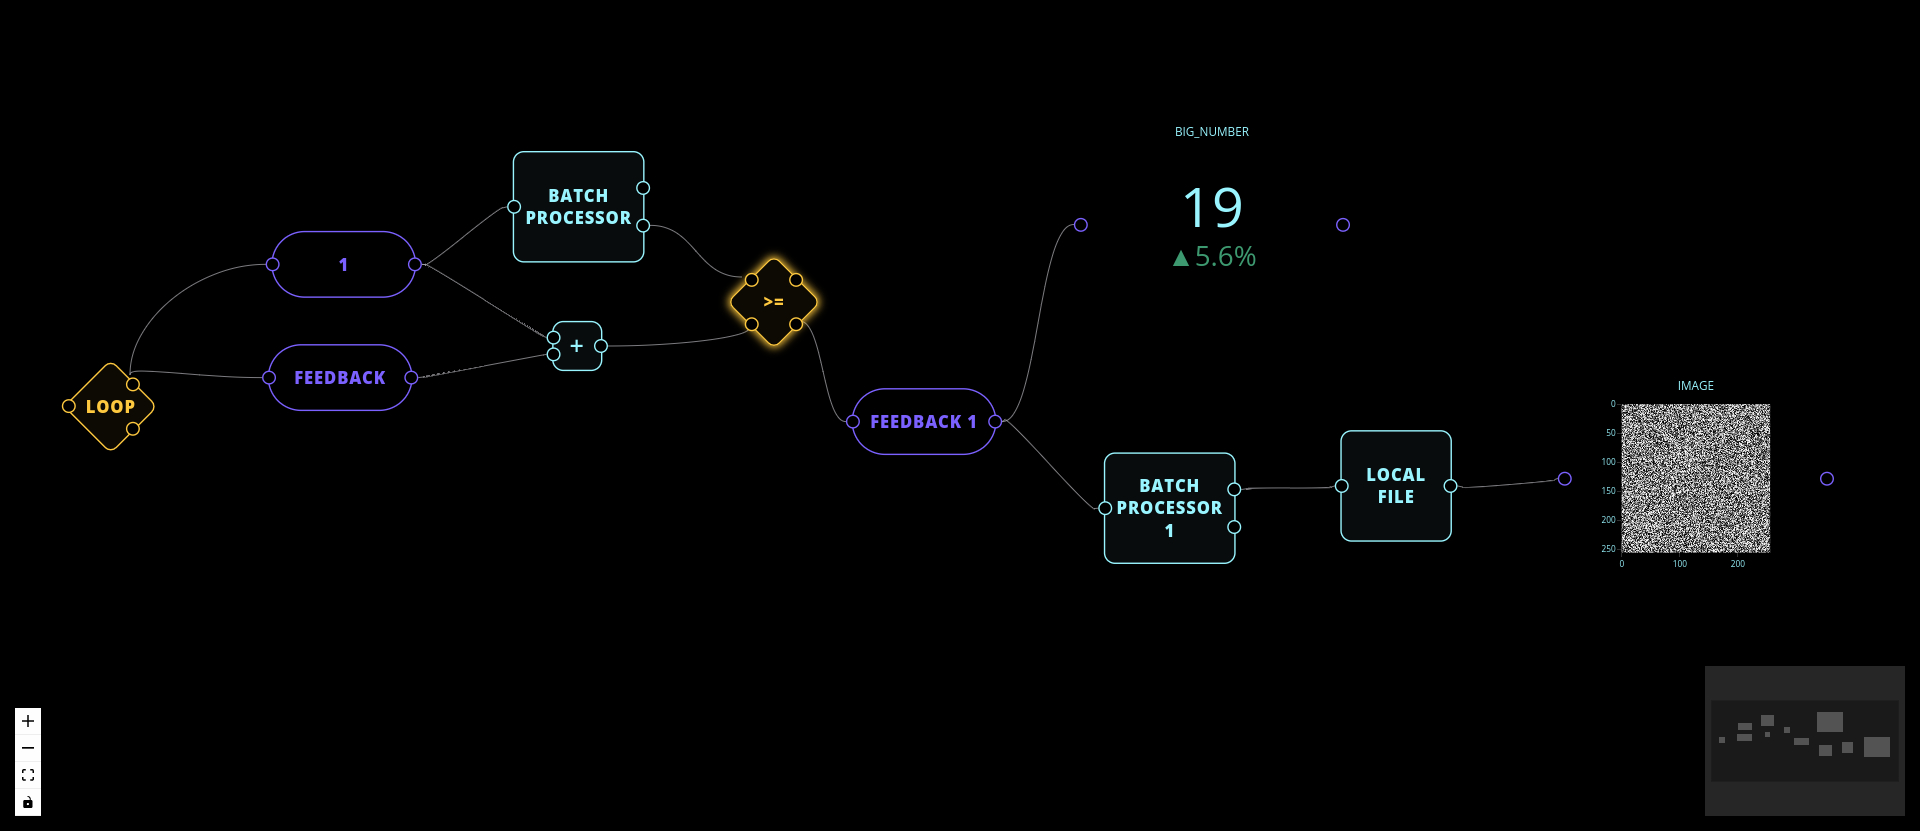
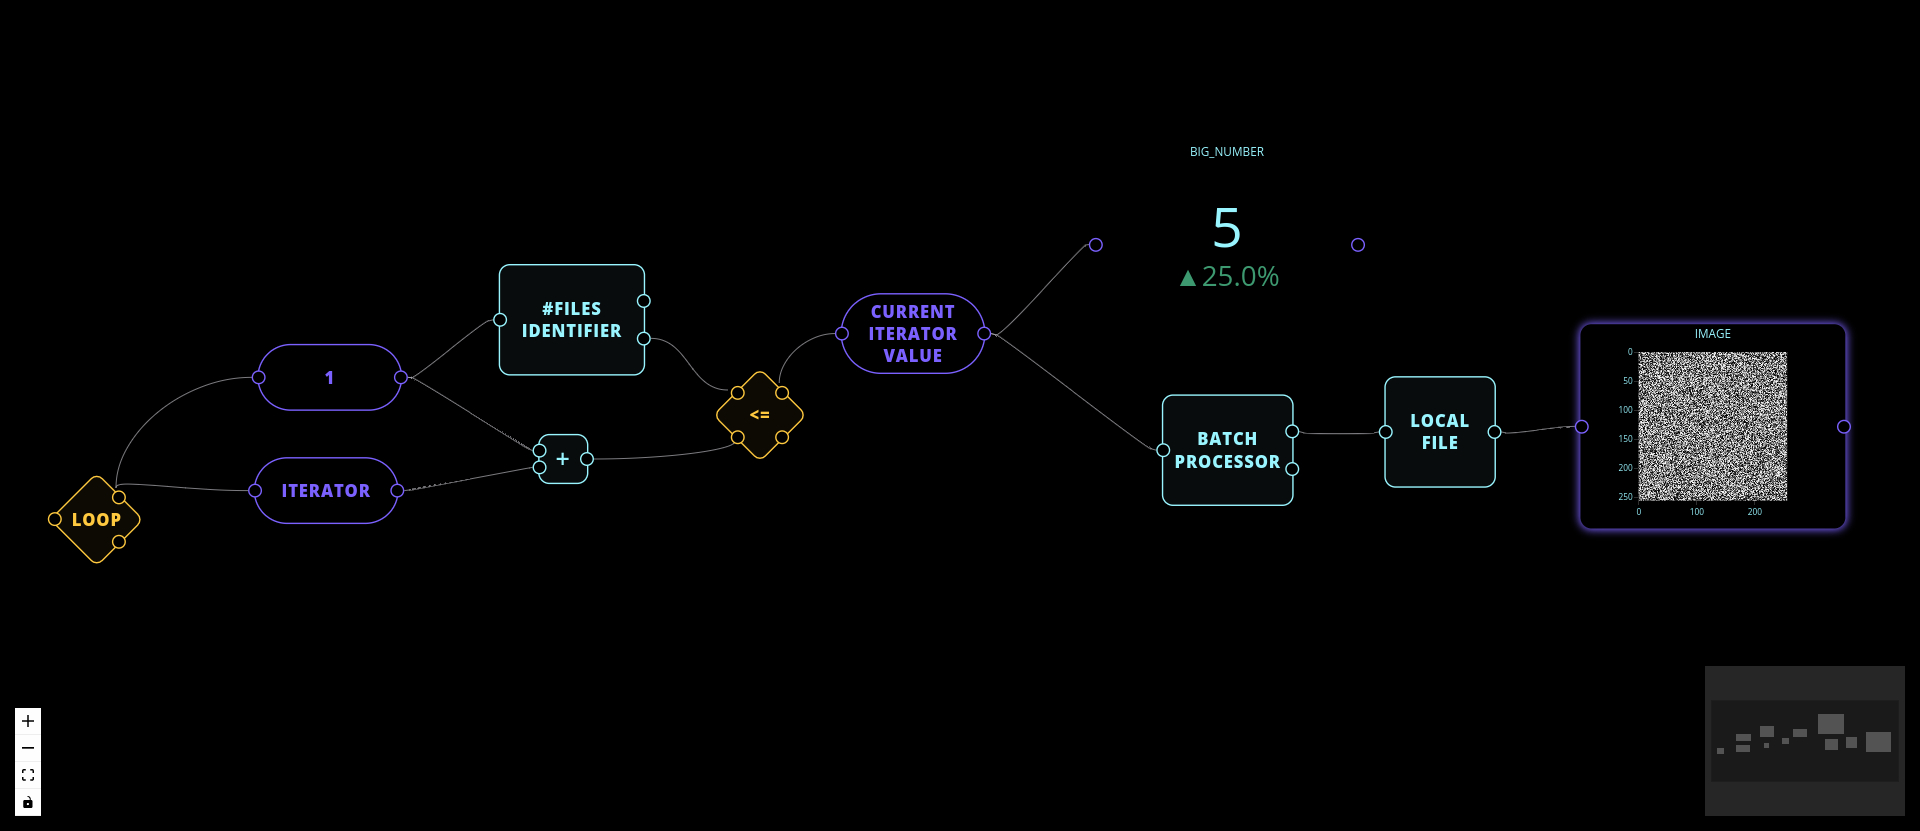
corrected for quirks of current while loop impl

diff --git a/LOADERS/LOCAL_FILE_SYSTEM/BATCH_PROCESSOR/BATCH_PROCESSOR.py b/LOADERS/LOCAL_FILE_SYSTEM/BATCH_PROCESSOR/BATCH_PROCESSOR.py
@@ -61,7 +61,7 @@ def BATCH_PROCESSOR(
     # if iteration 1, pattern find, then write to SmallMemory
     if curr_iter < 2:
         files = get_fnames(directory_path, pattern if pattern else '*')
-        return BATCH_OUTPUT(fname=TextBlob(text_blob=""), n_files=Scalar(c=len(files)))
+        return BATCH_OUTPUT(fname=TextBlob(text_blob=""), n_files=Scalar(c=len(files)+2))
     elif curr_iter == 2: #loop index starts at 1, sigh
         files = get_fnames(directory_path, pattern if pattern else '*')
         SmallMemory().write_to_memory(
@@ -93,7 +93,7 @@ def BATCH_PROCESSOR(
                         'original_files' : old_data['original_files']
                     }
                 )
-                raise ValueError(list(difference))
+                
     # Now we read from SmallMemory and pop fname
     data: dict[str, Any] = SmallMemory().read_memory(node_id, memory_key) or {}
     fname = data['files'].pop(0)
